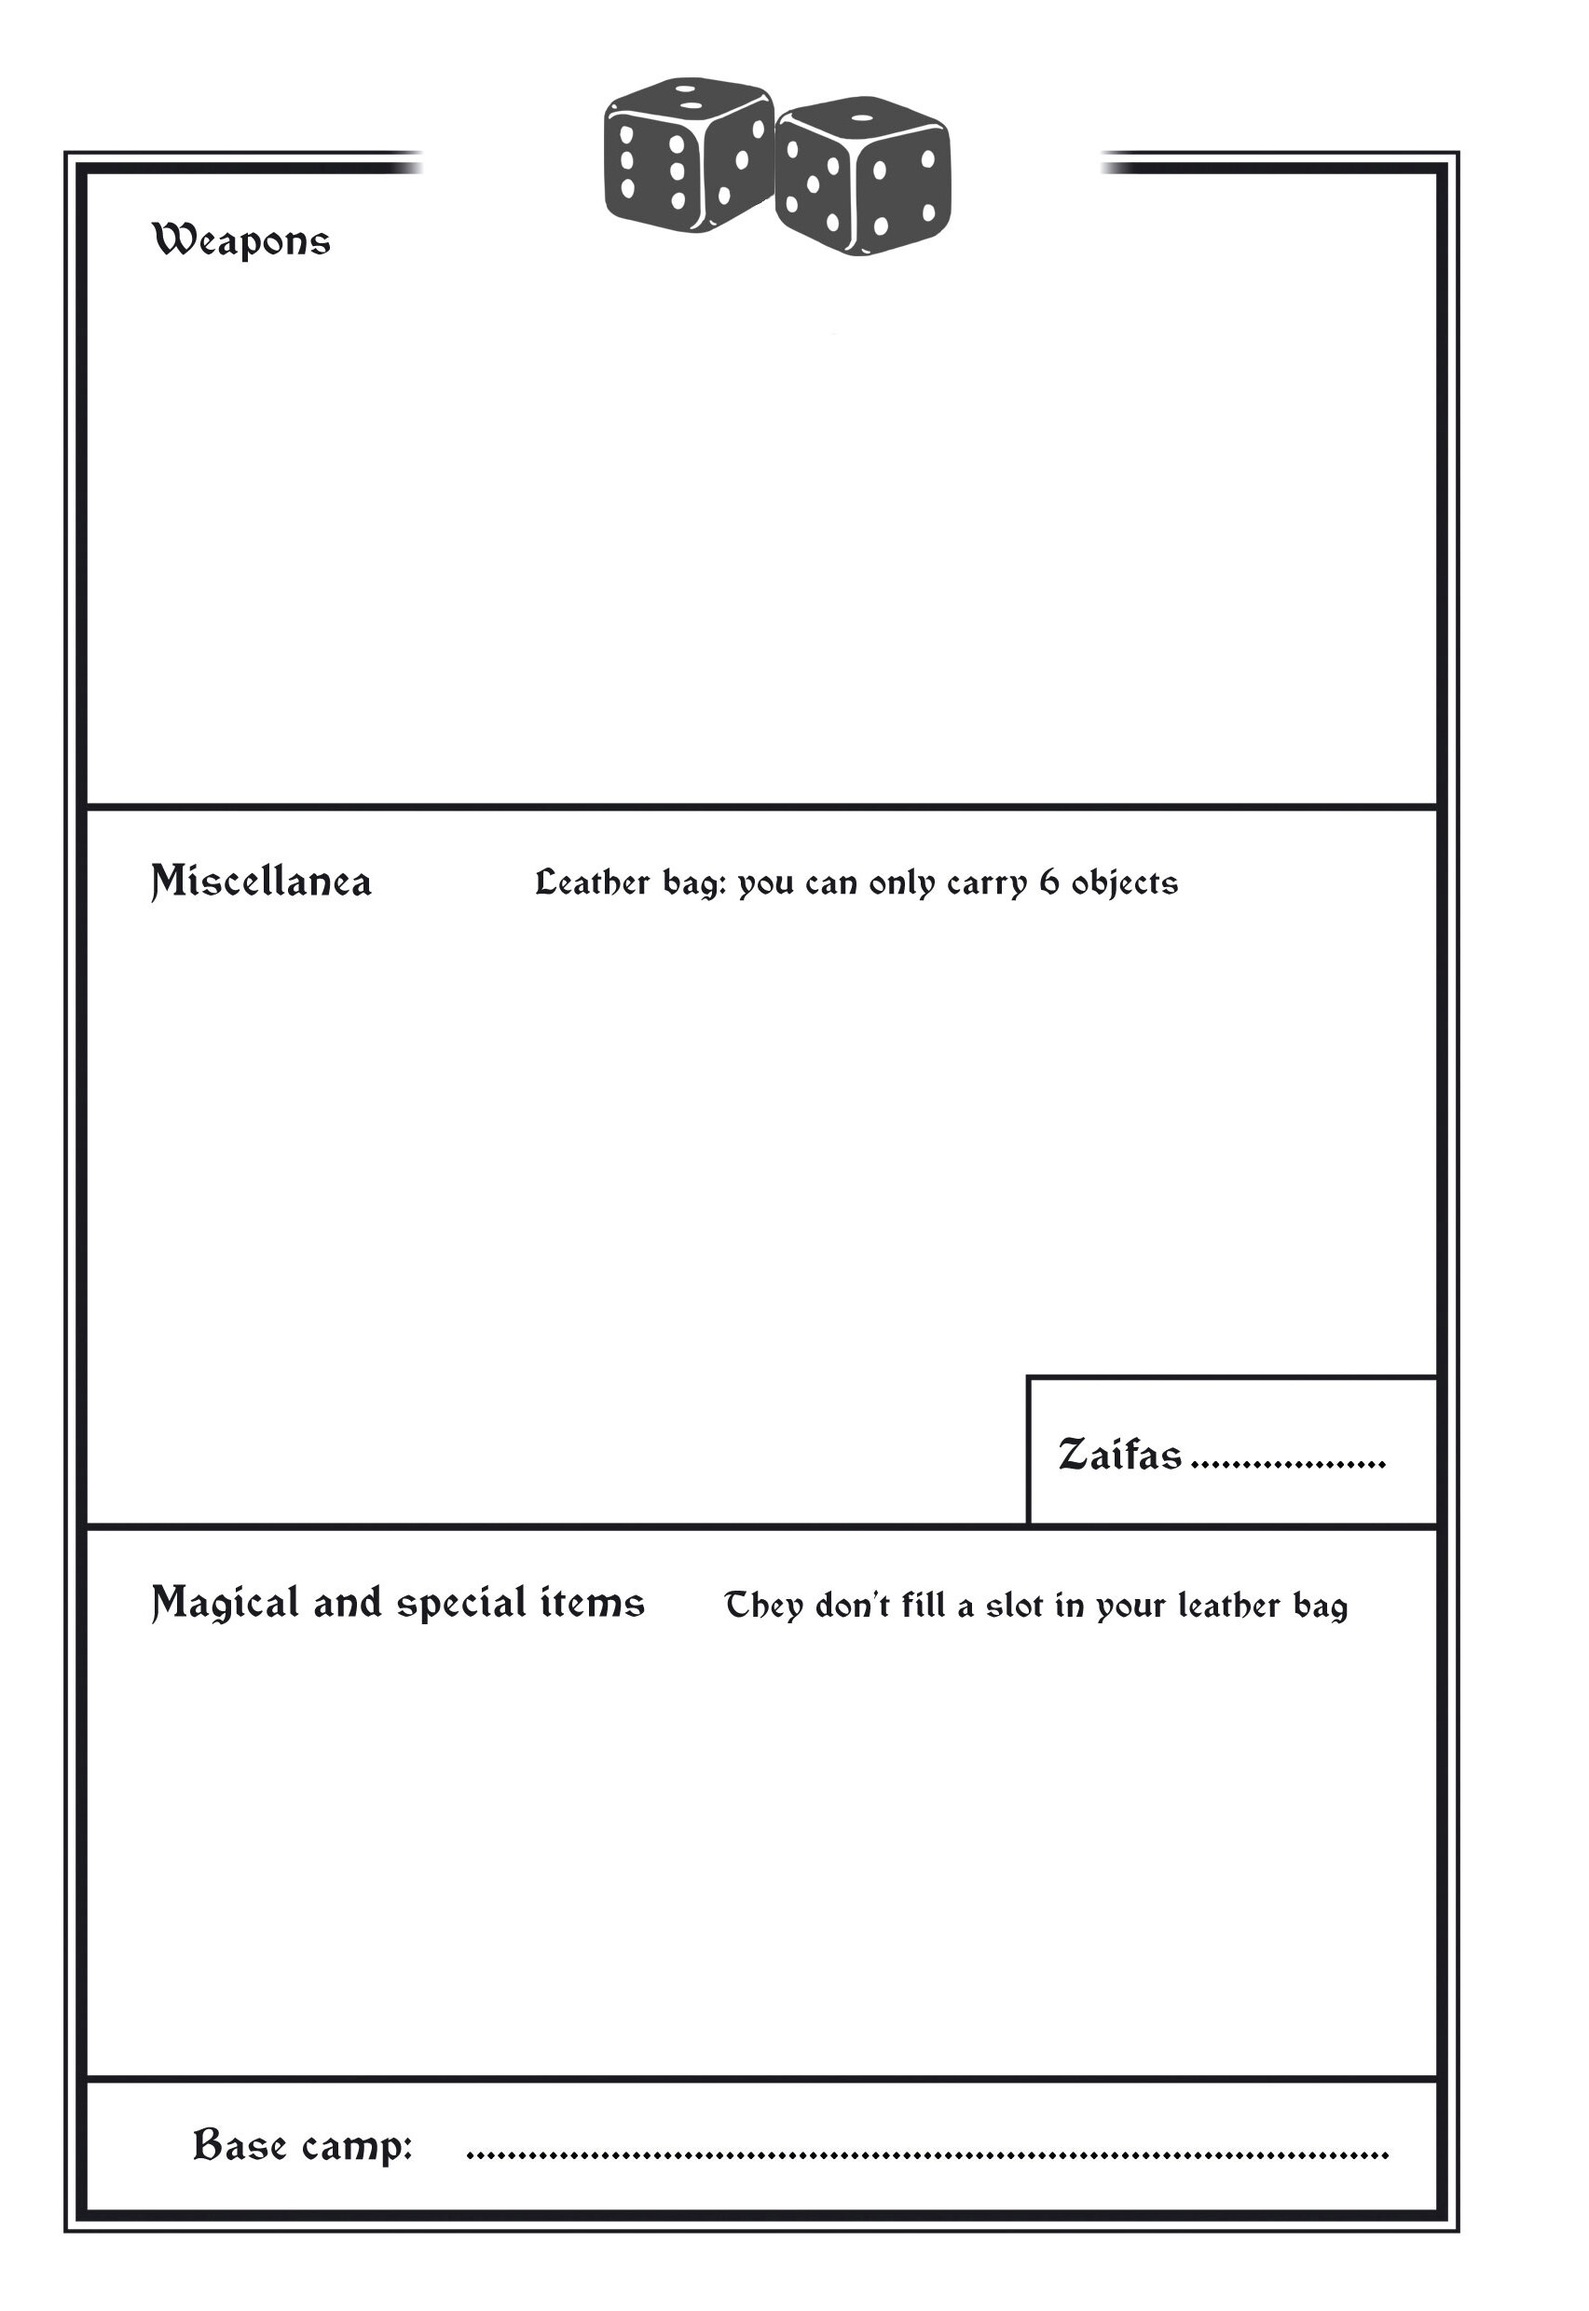
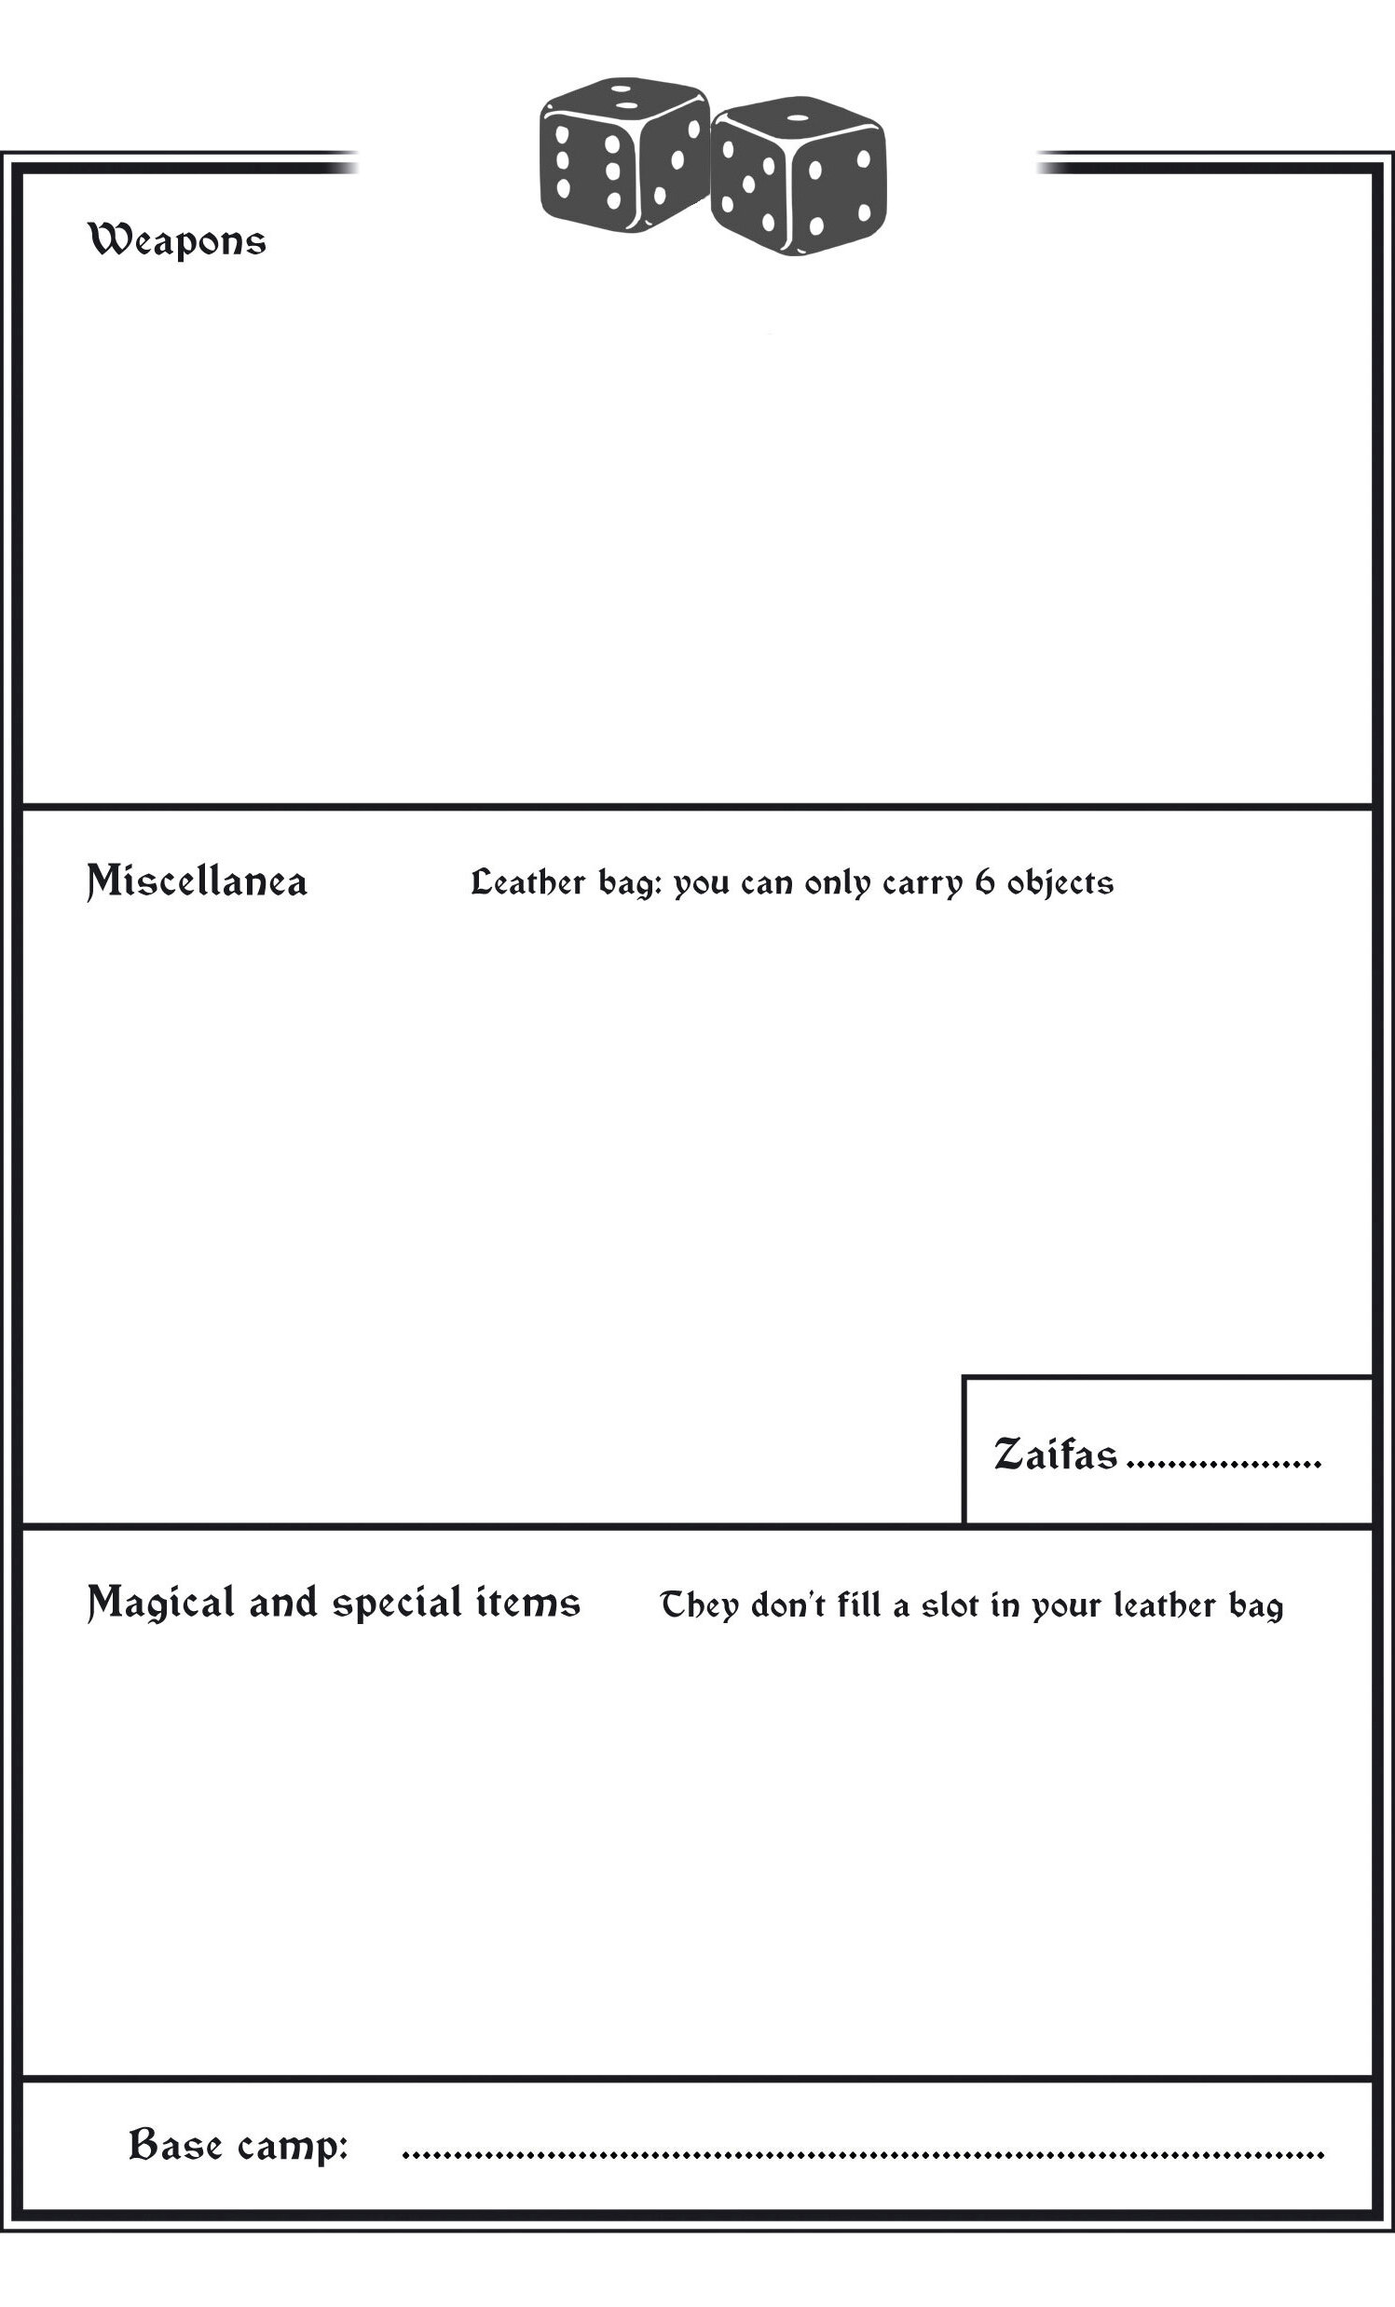
Update image

diff --git a/src/routes/+page.svelte b/src/routes/+page.svelte
@@ -1,3 +1,2 @@
-<h1 class="text-3xl font-bold underline">
-    Hello world!
-</h1>
+<img src="cs-top.jpg" />
+<img src="cs-bottom.jpg" />
